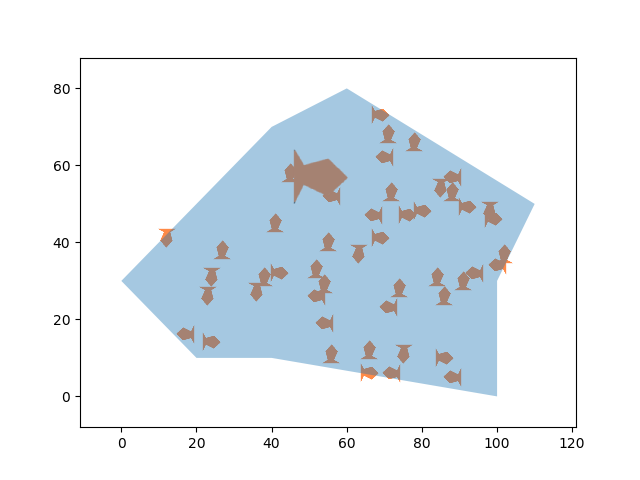
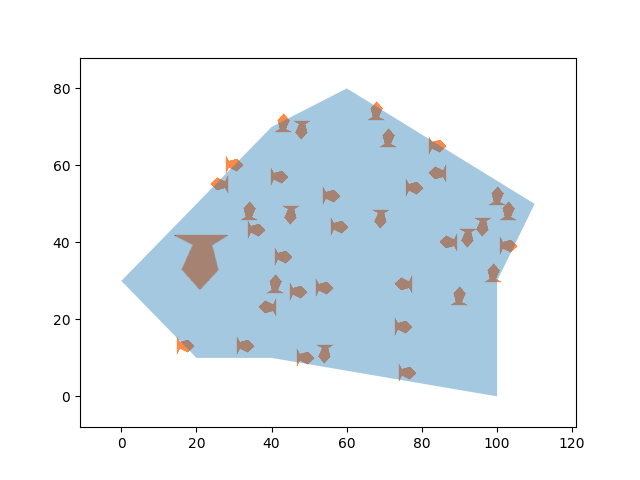
m

diff --git a/utils/fishies.py b/utils/fishies.py
@@ -1,12 +1,12 @@
 import logging
+import math
 import random
 
 import matplotlib.pyplot as plt
 from scipy import ndimage
 
 from utils.environ import OceanEnvironment
-from utils.fish_positioning import Position
-
+from utils.spatial_utils import SpatialUtils
 
 logger = logging.getLogger(__name__)
 
@@ -27,14 +27,7 @@ class Fish:
             self.name = self.choose_random_name()
         else:
             self.name = fish_name
-        self.position = Position(position=initial_position, environment=self.environment, fish=self).set_pos(place_attempts)
-
-        if self.position is None:
-            # fish generated on the land
-            self.welfare = 'dead'
-        else:
-            self.welfare = 'alive'
-
+        self.welfare = 'dead'  # start off dead and become alive when find valid position
         environment.population.append(self)
 
         logger.info('created {}: {}'.format(self.species, self.name))
@@ -60,13 +53,18 @@ class Snapper(Fish):
         Fish.__init__(self, environment=environment, species='whale', initial_position=initial_position,
                       fish_name=fish_name, place_attempts=place_attempts)
         self.size = 5
-        # self.colour = '#1a1aff'  # dark blue
         self.repel_distance = 1  # less than this distance focal fish will swim away to avoid collision
         self.align_distance = 3  # focal fish will seek to align direction with neighbours
         self.follow_distance = 10  # focal fish will move towards a neighbour
         self.max_movement_radius = 2  # max distance fish can move in a single turn
         im = plt.imread('input/fish.png')
         self.graph_marker = ndimage.rotate(im, self.rotation)
+
+        self.position = FishPosition(position=initial_position, environment=self.environment, fish=self).set_pos(
+            place_attempts)
+
+        if self.position is not None:
+            self.welfare = 'alive'
 
 
 class Whale(Fish):
@@ -77,7 +75,6 @@ class Whale(Fish):
         Fish.__init__(self, environment=environment, species='whale', initial_position=initial_position,
                       fish_name=fish_name, place_attempts=place_attempts)
         self.size = 15
-        # self.colour = '#1a1aff'  # dark blue
         self.repel_distance = 1  # less than this distance focal fish will swim away to avoid collision
         self.align_distance = 3  # focal fish will seek to align direction with neighbours
         self.follow_distance = 10  # focal fish will move towards a neighbour
@@ -85,3 +82,87 @@ class Whale(Fish):
         im = plt.imread('input/fish.png')
         self.graph_marker = ndimage.rotate(im, self.rotation)
 
+        self.position = FishPosition(position=initial_position, environment=self.environment, fish=self).set_pos(
+            place_attempts)
+
+        if self.position is not None:
+            self.welfare = 'alive'
+
+class FishPosition:
+    def __init__(self, position: tuple, environment: OceanEnvironment, fish: Fish):
+        self.coordinates = position
+        self.environment = environment
+        self.fish = fish
+
+    # define the position of the fish in the environment
+    def set_pos(self, place_attempts) -> tuple:
+        bbox = SpatialUtils.extract_bounding_box(self.environment.boundary)
+        for attempt in range(place_attempts):
+            if self.coordinates is None:
+                self.coordinates = self.generate_random_position(bounding_box=bbox,
+                                                                 full_boundary=self.environment.boundary)
+                logger.debug(
+                    'position generated for {} ({}): {}'.format(self.fish.name, self.fish.unique_id, self.coordinates))
+            if self.coordinates is not None:
+                if self.detect_fish_collision():
+                    logger.debug('generating new starting location for: {} ({})'.format(self.fish.name,
+                                                                                        self.fish.unique_id))
+                    self.coordinates = None
+                else:
+                    logger.debug('successfully avoided collision for {} ({}) on attempt: {}'.format(self.fish.name,
+                                                                                                    self.fish.unique_id,
+                                                                                                    attempt))
+                    break
+
+        return self.coordinates
+
+    def generate_random_position(self, bounding_box: tuple, full_boundary: tuple):
+        """generate random starting position within bounding box of environment"""
+        proposed_starting_pos = (
+            random.randint(bounding_box[0], bounding_box[2]), random.randint(bounding_box[1], bounding_box[3]))
+        if SpatialUtils.poly_contains_point(point=proposed_starting_pos, polygon=full_boundary,
+                                            method='winding'):
+            logger.info(
+                'sploosh! {} ({}) landed in the water! {}'.format(self.fish.name, self.fish.unique_id, proposed_starting_pos))
+            return proposed_starting_pos
+        else:
+            logger.info('flop! {} ({}) cannot swim outside of the ocean: {}'.format(self.fish.name, self.fish.unique_id, proposed_starting_pos))
+            return None
+
+    def detect_fish_collision(self):
+        other_fish = self.find_other_fish()
+        for other in other_fish:
+            distance_between = self.calc_distance(self.coordinates, other.position)
+            if distance_between < max([self.fish.size, other.size]):
+                logger.debug('collision between fish: {} ({}), and: {} ({})'.format(self.fish.name, self.fish.unique_id,
+                                                                                    other.name, other.unique_id))
+                return True
+
+    def detect_edge_collision(self):
+        pass
+
+    def find_other_fish(self):
+        """remove current fish and dead fish from list of fish being considered"""
+        other_fish = []
+        for fish in self.environment.population:
+            if fish.unique_id != self.fish.unique_id and fish.welfare != 'dead':
+                other_fish.append(fish)
+        return other_fish
+
+    @staticmethod
+    def calc_distance(position1: tuple, position2: tuple):
+        squared_dist = (position1[0] - position2[0]) ** 2 + (position1[1] - position2[1]) ** 2
+        dist = math.sqrt(squared_dist)
+        return round(dist, 4)
+
+    def calc_angle(self, that_position):
+        """def angle_trunc(a):
+                while a < 0.0:
+                        a += pi * 2
+                return a"""
+
+        deltaY = that_position.coordinates[1] - self.coordinates[1]
+        deltaX = that_position.coordinates[0] - self.coordinates[0]
+        # return degrees(angle_trunc(atan2(deltaY, deltaX)))
+
+        return math.degrees(math.atan2(deltaY, deltaX))

diff --git a/fish_schooling.py b/fish_schooling.py
@@ -28,10 +28,11 @@ for dir in REBUILD_DIRECTORIES:
 
 the_sea = OceanEnvironment(bounding_coordinates=poly)
 fishes = 0
+wh = Whale(environment=the_sea)
 while len(the_sea.population) < FISH_TO_SPAWN:
     fsh = Snapper(environment=the_sea)
 
-wh = Whale(environment=the_sea)
+
 the_sea.get_fish()
 
 the_sea.save_snapshot(output_name='output/initial_config.png')
